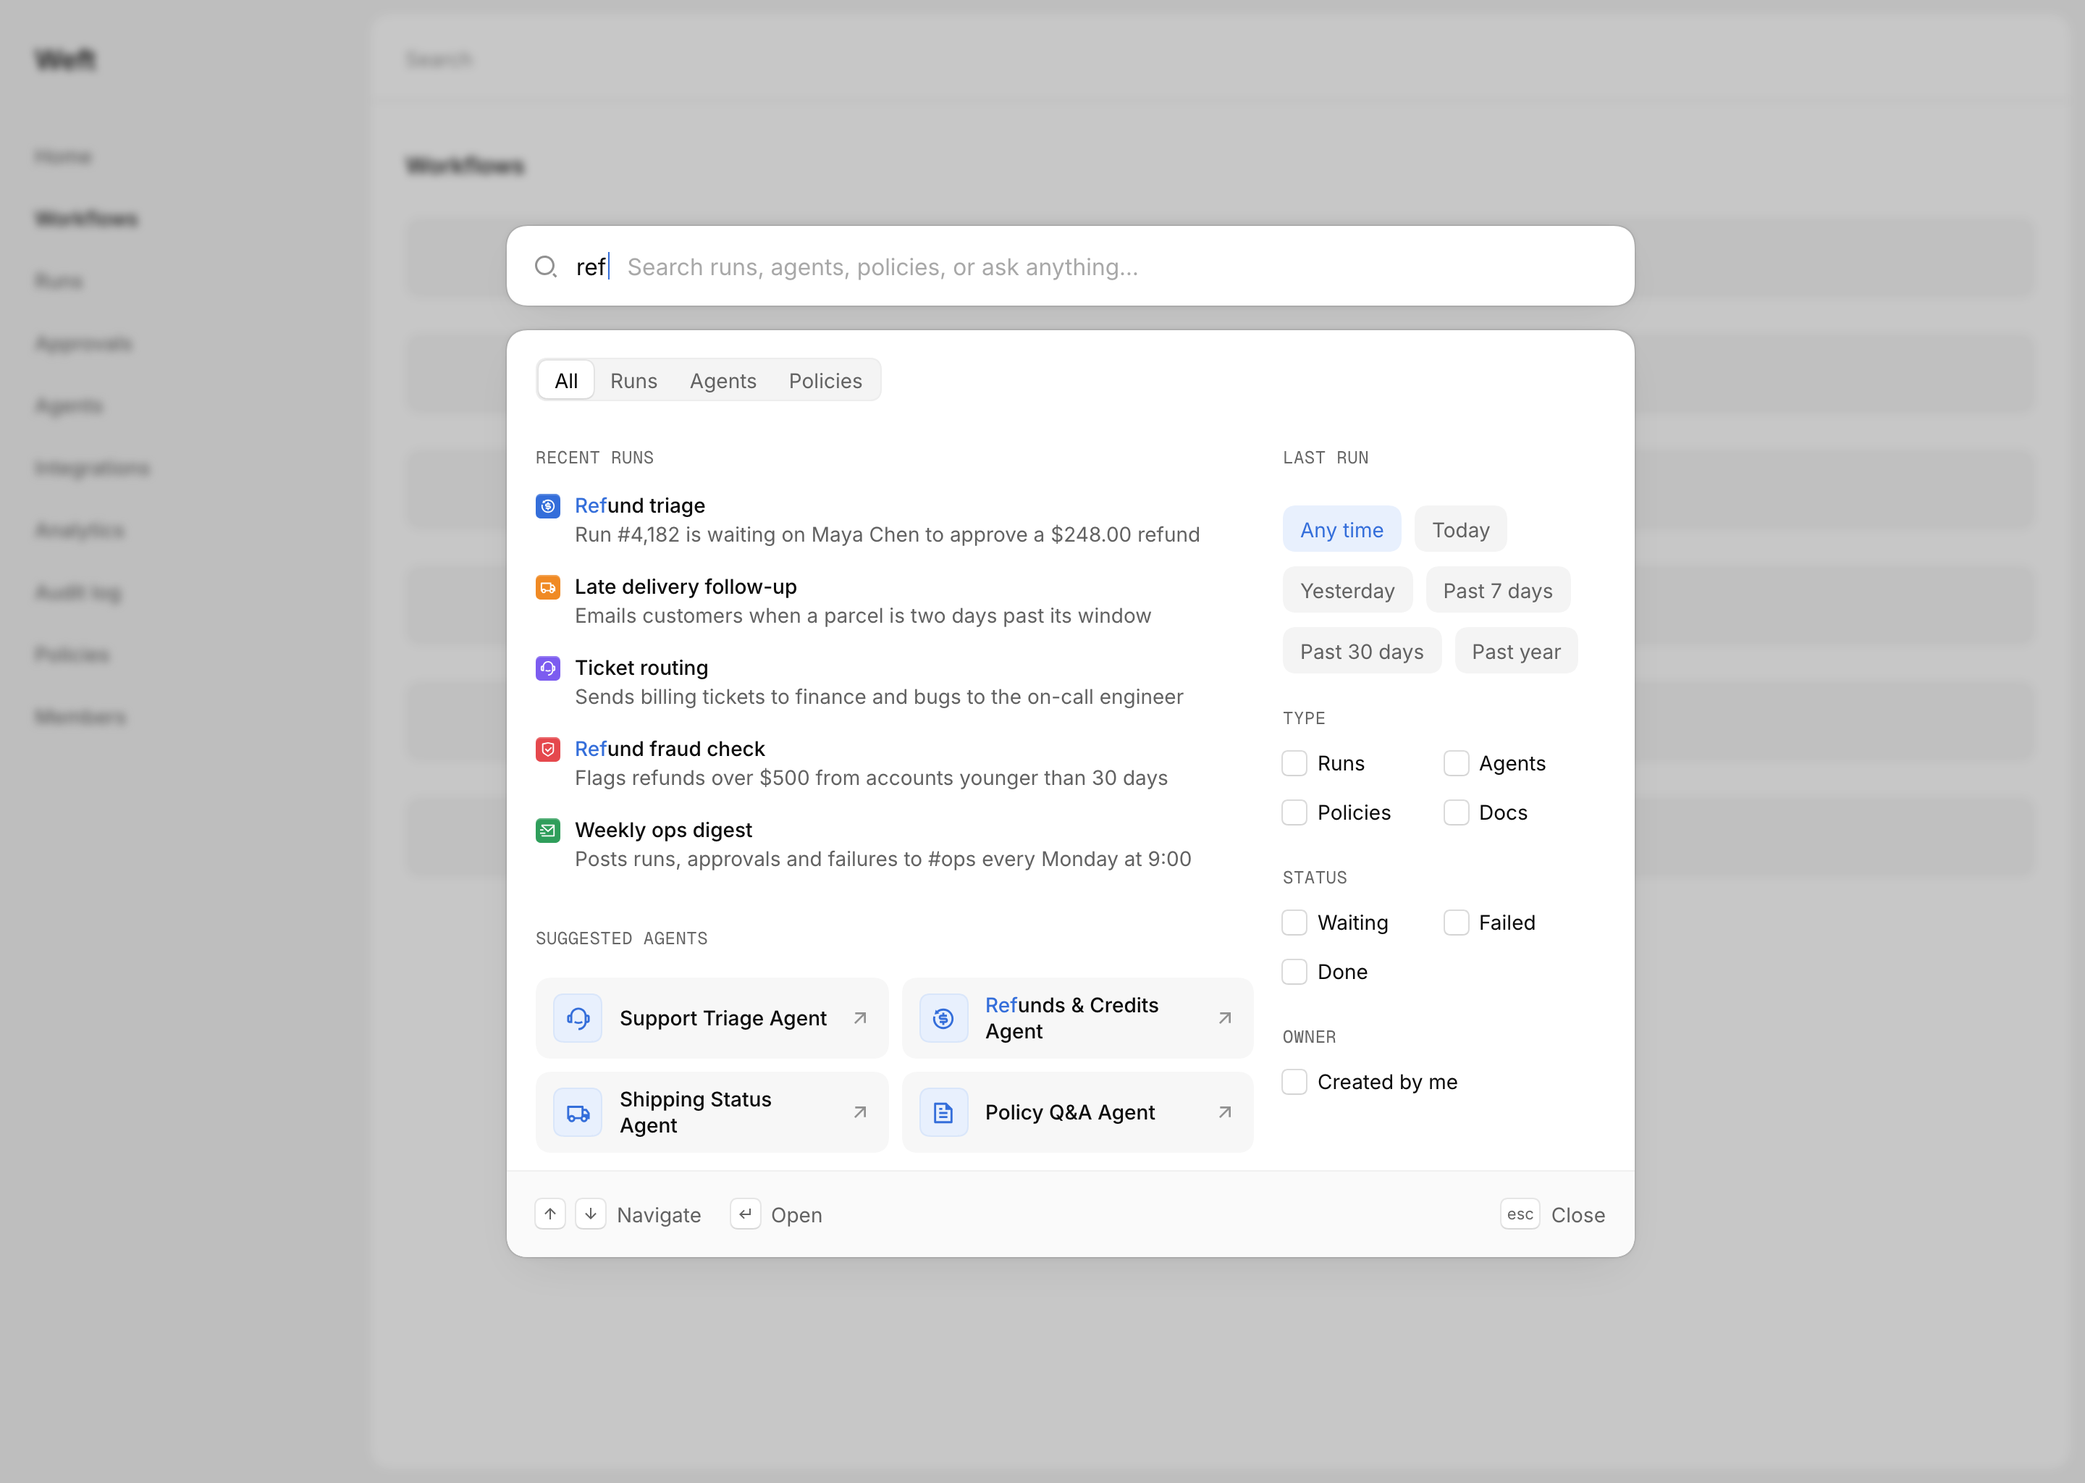
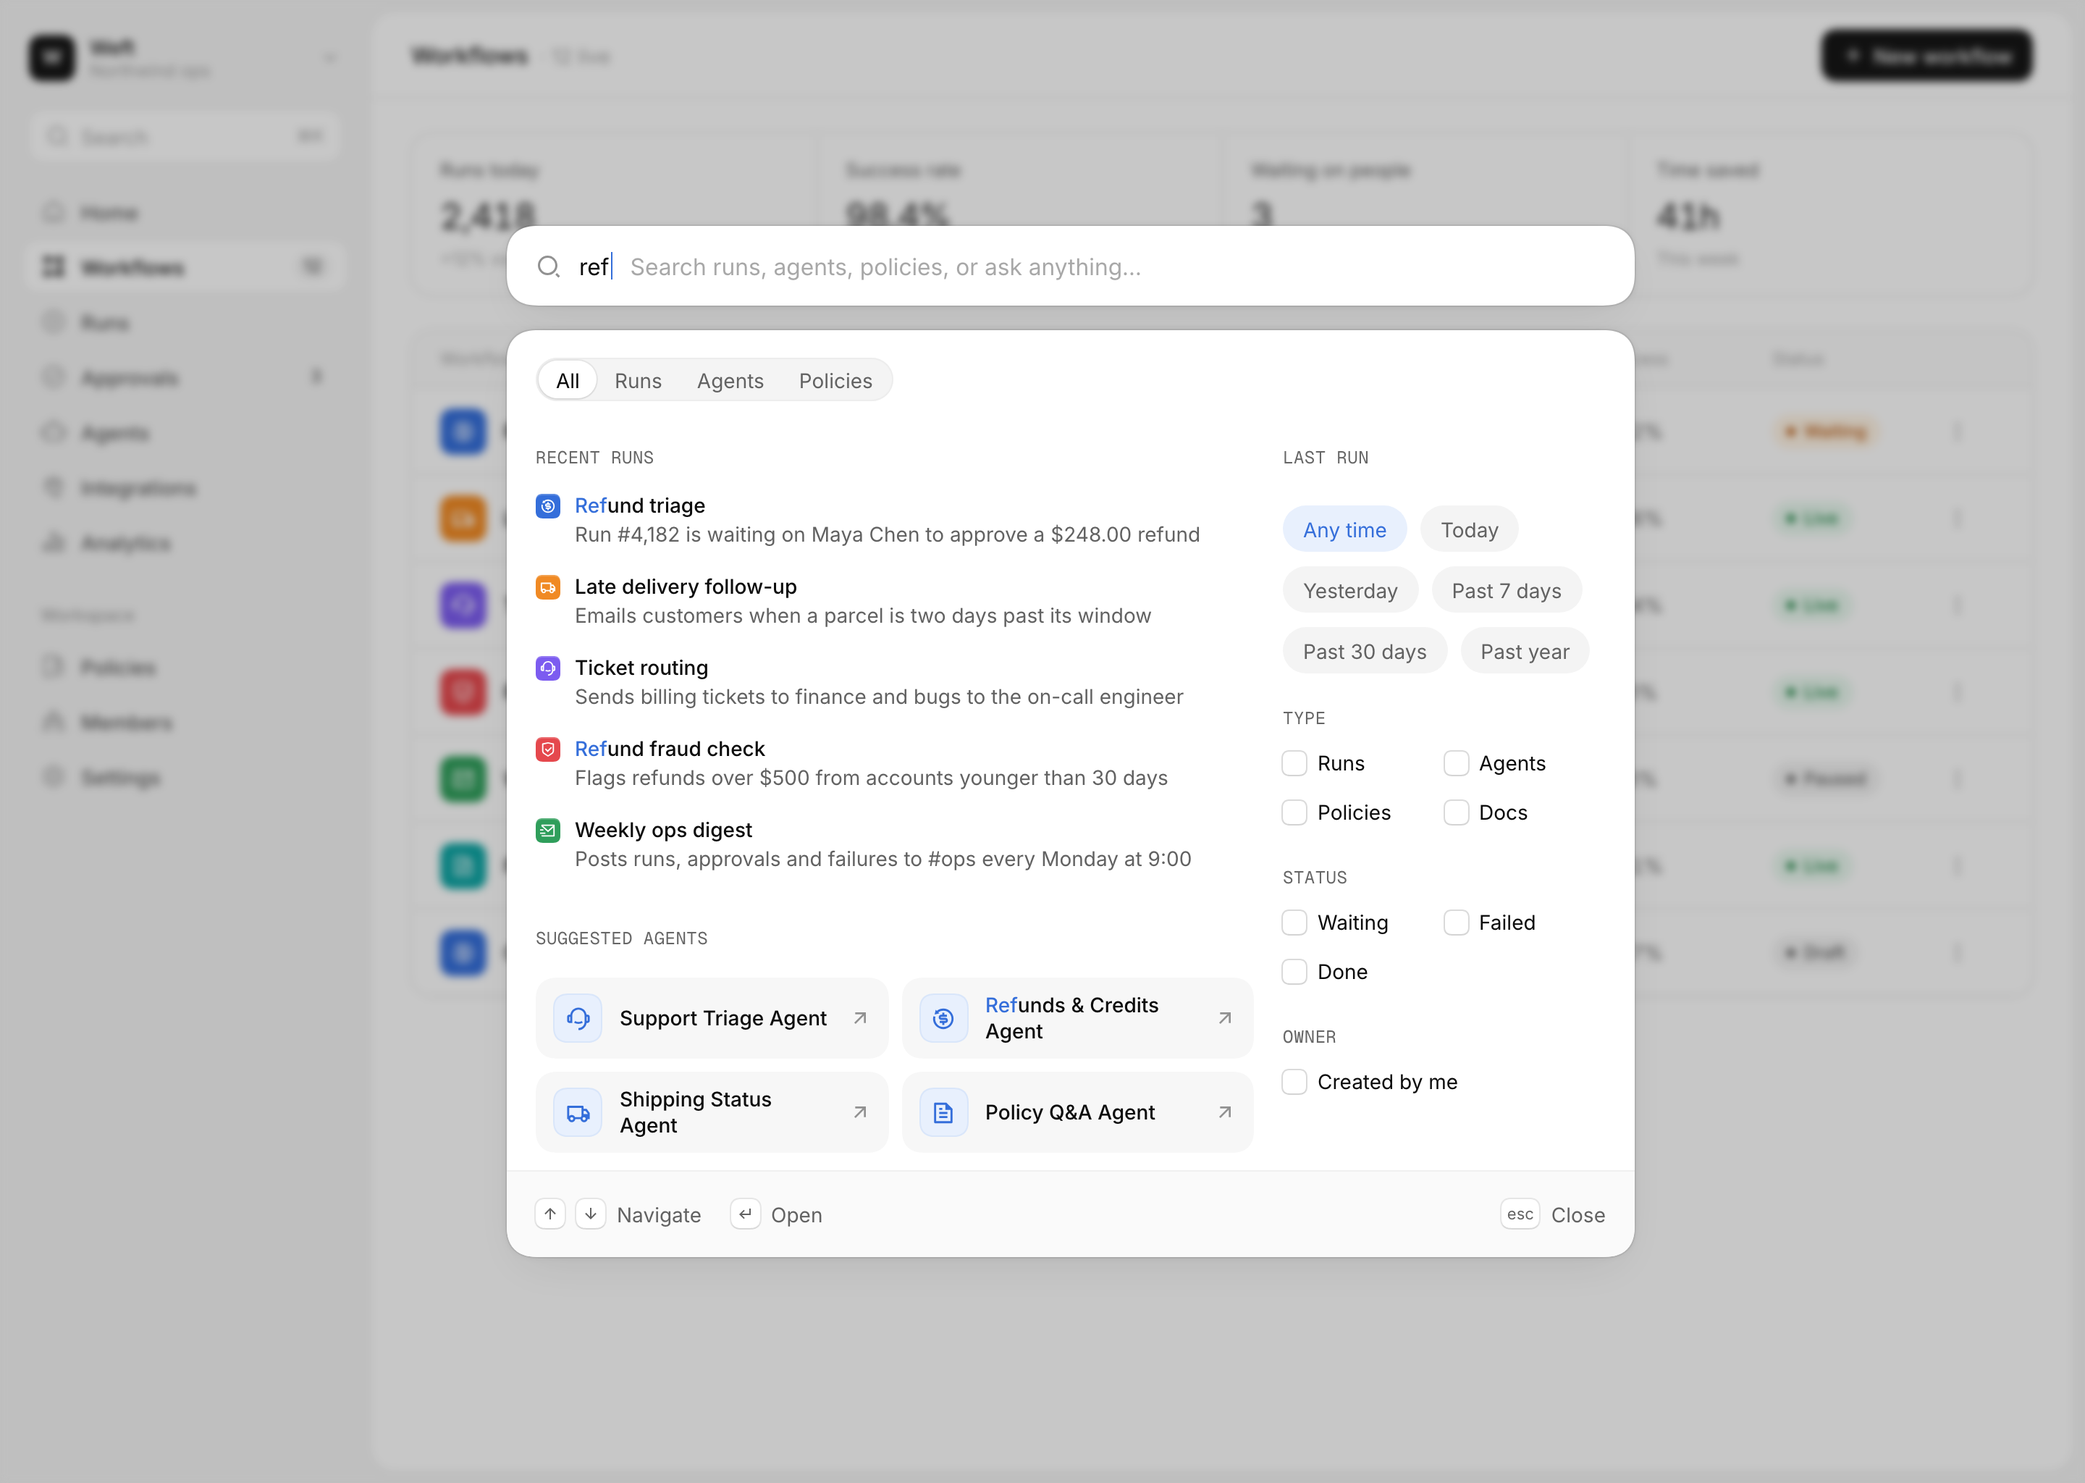
Search replica: rounder ladder (22 surfaces, pill chips/segmented, 16 tiles), real Weft workflows app behind the scrim

diff --git a/work/replicas/app/src/Search.tsx b/work/replicas/app/src/Search.tsx
@@ -4,15 +4,16 @@
 // section labels, 56px result rows with 17px colour tiles, chip filters, checkbox columns, a hint footer strip.
 // Our content: Weft (AI workflows). Own touch: the matched query letters are highlighted in each result title.
 import type { ReactNode } from 'react'
+import WeftApp from './WeftApp'
 import { RiSearch2Line, RiFlowChart, RiFileTextLine, RiArrowRightUpLine, RiArrowUpLine, RiArrowDownLine, RiCornerDownLeftLine, RiCustomerService2Line, RiRefund2Line, RiTruckLine, RiShieldCheckLine, RiMailSendLine } from '@remixicon/react'
 
 const ink = '#0c0c0c', sub = '#626262', mute = '#919191'
 const ring = '0 0 0 1px rgb(0 0 0 / 0.07)'
 const surface = `${ring}, 0 0 6px rgb(0 0 0 / 0.06), 0 12px 32px -12px rgb(0 0 0 / 0.10)`
 const Caps = ({ children, className = '' }: { children: ReactNode; className?: string }) => <div className={`font-mono text-[12px] uppercase tracking-[0.02em] ${className}`} style={{ color: '#666' }}>{children}</div>
-const Tile = ({ c, icon: I }: { c: string; icon: typeof RiFlowChart }) => <span className="grid size-[17px] shrink-0 place-items-center rounded-[4px] text-white" style={{ background: c, boxShadow: 'inset 0 1px 0 rgb(255 255 255 / 0.2)' }}><I size={11} /></span>
-const Box = () => <span className="size-4 shrink-0 rounded-[4px] bg-white" style={{ boxShadow: '0 0 0 1px rgb(0 0 0 / 0.14), 0 1px 1px rgb(0 0 0 / 0.04)' }} />
-const Key = ({ children }: { children: ReactNode }) => <span className="grid h-5 min-w-5 place-items-center rounded-[5px] bg-white px-1 text-[11px]" style={{ color: sub, boxShadow: '0 0 0 1px rgb(0 0 0 / 0.08), 0 1px 0 rgb(0 0 0 / 0.06)' }}>{children}</span>
+const Tile = ({ c, icon: I }: { c: string; icon: typeof RiFlowChart }) => <span className="grid size-[17px] shrink-0 place-items-center rounded-[5px] text-white" style={{ background: c, boxShadow: 'inset 0 1px 0 rgb(255 255 255 / 0.2)' }}><I size={11} /></span>
+const Box = () => <span className="size-4 shrink-0 rounded-[5px] bg-white" style={{ boxShadow: '0 0 0 1px rgb(0 0 0 / 0.14), 0 1px 1px rgb(0 0 0 / 0.04)' }} />
+const Key = ({ children }: { children: ReactNode }) => <span className="grid h-5 min-w-5 place-items-center rounded-[7px] bg-white px-1 text-[11px]" style={{ color: sub, boxShadow: '0 0 0 1px rgb(0 0 0 / 0.08), 0 1px 0 rgb(0 0 0 / 0.06)' }}>{children}</span>
 const Hit = ({ t, q }: { t: string; q: string }) => { const i = t.toLowerCase().indexOf(q); return i < 0 ? <>{t}</> : <>{t.slice(0, i)}<span style={{ color: '#346eda' }}>{t.slice(i, i + q.length)}</span>{t.slice(i + q.length)}</> }
 
 const RECENT: [string, typeof RiFlowChart, string, string][] = [
@@ -27,33 +28,23 @@ const AGENTS: [typeof RiFlowChart, string][] = [[RiCustomerService2Line, 'Suppor
 export default function Search() {
   return (
     <div className="relative overflow-hidden" style={{ width: 1440, height: 1024, background: '#f4f4f4', fontFamily: '"Inter Variable", system-ui, sans-serif', fontFeatureSettings: '"cv11"', color: ink }}>
-      {/* the app behind, blurred */}
-      <div aria-hidden className="absolute inset-0" style={{ filter: 'blur(3px)' }}>
-        <div className="absolute left-0 top-0 h-full w-[256px] px-6 pt-7 text-[14px] font-[500]" style={{ color: '#7a7a7a' }}>
-          <div className="mb-10 text-[19px] font-[600] text-[#222]">Weft</div>
-          {['Home', 'Workflows', 'Runs', 'Approvals', 'Agents', 'Integrations', 'Analytics', 'Audit log', 'Policies', 'Members'].map((l, i) => <div key={l} className={`mb-[22px] ${i === 1 ? 'text-[#222]' : ''}`}>{l}</div>)}
-        </div>
-        <div className="absolute left-[256px] top-[10px] h-[1004px] w-[1174px] rounded-[16px] bg-white">
-          <div className="h-[60px] border-b border-[#ececec] px-6 pt-5 text-[14px] text-[#999]">Search</div>
-          <div className="px-6 pt-8 text-[16px] font-[600] text-[#333]">Workflows</div>
-          {[0, 1, 2, 3, 4, 5].map((i) => <div key={i} className="mx-6 mt-6 h-[56px] rounded-[12px] bg-[#f6f6f6]" />)}
-        </div>
-      </div>
+      {/* the app behind, blurred: a real Weft screen */}
+      <div aria-hidden className="absolute inset-0" style={{ filter: 'blur(3px)' }}><WeftApp /></div>
       <div className="absolute inset-0" style={{ background: 'rgb(0 0 0 / 0.22)' }} />
 
       {/* bar */}
       <div data-subject className="absolute" style={{ left: 350, top: 156, width: 779 }}>
-        <div className="flex h-[55px] items-center gap-3 rounded-[16px] bg-white px-[18px] text-[16px]" style={{ boxShadow: surface }}>
+        <div className="flex h-[55px] items-center gap-3 rounded-[22px] bg-white px-[20px] text-[16px]" style={{ boxShadow: surface }}>
           <RiSearch2Line size={18} style={{ color: mute }} />
           <span>ref<span className="ml-px inline-block h-[19px] w-[1.5px] translate-y-[3px] bg-[#346eda]" /></span>
           <span style={{ color: '#a8a8a8' }}>Search runs, agents, policies, or ask anything…</span>
         </div>
 
         {/* results */}
-        <div className="mt-[17px] overflow-hidden rounded-[16px] bg-white" style={{ boxShadow: surface }}>
+        <div className="mt-[17px] overflow-hidden rounded-[22px] bg-white" style={{ boxShadow: surface }}>
           <div className="px-5 pt-[19px]">
-            <div className="inline-flex h-[30px] items-center rounded-[9px] p-[2px]" style={{ background: '#f4f4f4', boxShadow: 'inset 0 0 0 1px #ededed' }}>
-              {['All', 'Runs', 'Agents', 'Policies'].map((t, i) => <span key={t} className="flex h-[26px] items-center rounded-[7px] px-[11px] text-[14px]" style={i === 0 ? { background: '#fff', color: '#060606', boxShadow: '0 0 0 1px rgb(0 0 0 / 0.06), 0 1px 1px rgb(0 0 0 / 0.06)' } : { color: sub }}>{t}</span>)}
+            <div className="inline-flex h-[30px] items-center rounded-full p-[2px]" style={{ background: '#f4f4f4', boxShadow: 'inset 0 0 0 1px #ededed' }}>
+              {['All', 'Runs', 'Agents', 'Policies'].map((t, i) => <span key={t} className="flex h-[26px] items-center rounded-full px-[12px] text-[14px]" style={i === 0 ? { background: '#fff', color: '#060606', boxShadow: '0 0 0 1px rgb(0 0 0 / 0.06), 0 1px 1px rgb(0 0 0 / 0.06)' } : { color: sub }}>{t}</span>)}
             </div>
           </div>
           <div className="flex px-5">
@@ -70,8 +61,8 @@ export default function Search() {
               <Caps className="pt-[20px]">Suggested agents</Caps>
               <div className="grid grid-cols-2 gap-[9px] pt-[18px]">
                 {AGENTS.map(([I, t]) => (
-                  <div key={t} className="flex h-[56px] items-center gap-3 rounded-[12px] px-3" style={{ background: '#f7f7f7' }}>
-                    <span className="grid size-[34px] place-items-center rounded-[8px]" style={{ background: '#e8f0fd', color: '#346eda', boxShadow: 'inset 0 0 0 1px rgb(52 110 218 / 0.08)' }}><I size={17} /></span>
+                  <div key={t} className="flex h-[56px] items-center gap-3 rounded-[16px] px-3" style={{ background: '#f7f7f7' }}>
+                    <span className="grid size-[34px] place-items-center rounded-[11px]" style={{ background: '#e8f0fd', color: '#346eda', boxShadow: 'inset 0 0 0 1px rgb(52 110 218 / 0.08)' }}><I size={17} /></span>
                     <span className="flex-1 text-[14px] font-[500] leading-[18px]"><Hit t={t} q="ref" /></span>
                     <RiArrowRightUpLine size={16} style={{ color: mute }} />
                   </div>
@@ -81,7 +72,7 @@ export default function Search() {
             <div className="ml-auto w-[223px] pb-6">
               <Caps className="pt-[30px]">Last run</Caps>
               <div className="flex flex-wrap gap-x-[9px] gap-y-[10px] pt-[24px] text-[14px]">
-                {['Any time', 'Today', 'Yesterday', 'Past 7 days', 'Past 30 days', 'Past year'].map((c, i) => <span key={c} className="flex h-[32px] items-center rounded-[10px] px-3" style={i === 0 ? { background: '#e8f0fd', color: '#346eda' } : { background: '#f4f4f4', color: sub }}>{c}</span>)}
+                {['Any time', 'Today', 'Yesterday', 'Past 7 days', 'Past 30 days', 'Past year'].map((c, i) => <span key={c} className="flex h-[32px] items-center rounded-full px-3.5" style={i === 0 ? { background: '#e8f0fd', color: '#346eda' } : { background: '#f4f4f4', color: sub }}>{c}</span>)}
               </div>
               {[['Type', ['Runs', 'Agents', 'Policies', 'Docs']], ['Status', ['Waiting', 'Failed', 'Done']], ['Owner', ['Created by me']]].map(([h, items]) => (
                 <div key={h as string}>

diff --git a/work/replicas/app/src/WeftApp.tsx b/work/replicas/app/src/WeftApp.tsx
@@ -1,0 +1,71 @@
+// The Weft app shown behind the search modal: a real workflows screen in the AlignUI / affectUI grammar (inset white
+// panel on a soft grey shell, 36px nav rows, a KPI strip in one card with hairline dividers, a workflows table with
+// typed rows). Sample data.
+import { RiHome5Line, RiFlowChart, RiPlayCircleLine, RiCheckboxCircleLine, RiRobot2Line, RiPlugLine, RiBarChart2Line, RiFileShield2Line, RiTeamLine, RiSettings3Line, RiSearch2Line, RiAddLine, RiArrowDownSLine, RiMore2Fill, RiRefund2Line, RiTruckLine, RiCustomerService2Line, RiShieldCheckLine, RiMailSendLine, RiFileTextLine } from '@remixicon/react'
+
+const ink = '#171717', sub = '#5c5c5c', soft = '#a3a3a3', line = '#ececec'
+const NAV: [typeof RiHome5Line, string, string?][] = [[RiHome5Line, 'Home'], [RiFlowChart, 'Workflows', '12'], [RiPlayCircleLine, 'Runs'], [RiCheckboxCircleLine, 'Approvals', '3'], [RiRobot2Line, 'Agents'], [RiPlugLine, 'Integrations'], [RiBarChart2Line, 'Analytics']]
+const ROWS: [typeof RiHome5Line, string, string, string, string, string, string][] = [
+  [RiRefund2Line, '#346eda', 'Refund triage', 'Zendesk → Stripe', '4,182', '98.2%', 'Waiting'],
+  [RiTruckLine, '#f08a24', 'Late delivery follow-up', 'Shopify → Gmail', '1,906', '99.6%', 'Live'],
+  [RiCustomerService2Line, '#7c5cf0', 'Ticket routing', 'Zendesk → Linear', '12,440', '97.4%', 'Live'],
+  [RiShieldCheckLine, '#e5484d', 'Refund fraud check', 'Stripe → Slack', '611', '100%', 'Live'],
+  [RiMailSendLine, '#2f9e5b', 'Weekly ops digest', 'Weft → Slack', '42', '100%', 'Paused'],
+  [RiFileTextLine, '#0ea5a4', 'Policy Q&A', 'Notion → Intercom', '3,318', '96.1%', 'Live'],
+  [RiRefund2Line, '#346eda', 'Chargeback evidence', 'Stripe → Drive', '208', '94.7%', 'Draft'],
+]
+const STATE: Record<string, [string, string]> = { Waiting: ['#fff4e5', '#b45309'], Live: ['#e9f8ef', '#15803d'], Paused: ['#f2f2f2', '#5c5c5c'], Draft: ['#f2f2f2', '#5c5c5c'] }
+
+export default function WeftApp() {
+  return (
+    <div className="absolute inset-0 flex" style={{ background: '#f5f5f5', color: ink }}>
+      <aside className="flex w-[256px] shrink-0 flex-col px-3 pt-4">
+        <div className="flex h-12 items-center gap-2.5 px-2">
+          <span className="grid size-8 place-items-center rounded-[10px] bg-[#171717] text-[13px] font-[600] text-white shadow-[inset_0_1px_0_rgb(255_255_255/0.18)]">W</span>
+          <div className="leading-tight"><div className="text-[14px] font-[500]">Weft</div><div className="text-[12px]" style={{ color: soft }}>Northwind ops</div></div>
+          <RiArrowDownSLine size={16} className="ml-auto" style={{ color: soft }} />
+        </div>
+        <div className="mx-2 mt-3 flex h-9 items-center gap-2 rounded-[12px] bg-white px-3 text-[14px]" style={{ color: soft, boxShadow: `0 0 0 1px ${line}, 0 1px 2px rgb(0 0 0 / 0.04)` }}><RiSearch2Line size={16} />Search<span className="ml-auto text-[12px]">⌘K</span></div>
+        <nav className="mt-4 flex flex-col gap-0.5 px-1">
+          {NAV.map(([I, l, n]) => (
+            <div key={l} className="flex h-9 items-center gap-2.5 rounded-[12px] px-3 text-[14px] font-[500]" style={l === 'Workflows' ? { background: '#fff', color: ink, boxShadow: `0 0 0 1px ${line}, 0 1px 2px rgb(0 0 0 / 0.04)` } : { color: sub }}>
+              <I size={18} style={{ color: l === 'Workflows' ? ink : soft }} />{l}{n && <span className="ml-auto rounded-full px-1.5 text-[12px]" style={{ color: sub, background: l === 'Workflows' ? '#f2f2f2' : 'transparent' }}>{n}</span>}
+            </div>
+          ))}
+        </nav>
+        <div className="mt-6 px-4 text-[12px] font-[500]" style={{ color: soft }}>Workspace</div>
+        <nav className="mt-2 flex flex-col gap-0.5 px-1">
+          {([[RiFileShield2Line, 'Policies'], [RiTeamLine, 'Members'], [RiSettings3Line, 'Settings']] as const).map(([I, l]) => <div key={l} className="flex h-9 items-center gap-2.5 rounded-[12px] px-3 text-[14px] font-[500]" style={{ color: sub }}><I size={18} style={{ color: soft }} />{l}</div>)}
+        </nav>
+      </aside>
+      <main className="my-2 mr-2 flex-1 overflow-hidden rounded-[20px] bg-white" style={{ boxShadow: `0 0 0 1px ${line}, 0 1px 2px rgb(0 0 0 / 0.03)` }}>
+        <div className="flex h-[60px] items-center px-7" style={{ boxShadow: `inset 0 -1px 0 ${line}` }}>
+          <span className="text-[16px] font-[500]">Workflows</span><span className="ml-2 text-[14px]" style={{ color: soft }}>· 12 live</span>
+          <span className="ml-auto flex h-9 items-center gap-1.5 rounded-[12px] bg-[#171717] px-3.5 text-[14px] font-[500] text-white shadow-[inset_0_1px_0_rgb(255_255_255/0.14),0_1px_2px_rgb(0_0_0/0.2)]"><RiAddLine size={16} />New workflow</span>
+        </div>
+        <div className="px-7 pt-6">
+          <div className="grid grid-cols-4 rounded-[18px]" style={{ boxShadow: `0 0 0 1px ${line}` }}>
+            {[['Runs today', '2,418', '+12% vs yesterday'], ['Success rate', '98.4%', '+0.6 pts'], ['Waiting on people', '3', 'Oldest 2m 14s'], ['Time saved', '41h', 'This week']].map(([l, v, d], i) => (
+              <div key={l} className="px-5 py-4" style={{ boxShadow: i ? `inset 1px 0 0 ${line}` : undefined }}>
+                <div className="text-[13px]" style={{ color: sub }}>{l}</div><div className="mt-1 text-[24px] tracking-[-0.02em] tabular-nums">{v}</div><div className="mt-0.5 text-[12px]" style={{ color: soft }}>{d}</div>
+              </div>
+            ))}
+          </div>
+          <div className="mt-6 overflow-hidden rounded-[18px]" style={{ boxShadow: `0 0 0 1px ${line}` }}>
+            <div className="grid h-10 grid-cols-[1fr_200px_120px_120px_120px_40px] items-center px-5 text-[12px]" style={{ background: '#fbfbfb', color: soft, boxShadow: `inset 0 -1px 0 ${line}` }}>
+              <span>Workflow</span><span>Apps</span><span>Runs</span><span>Success</span><span>Status</span><span />
+            </div>
+            {ROWS.map(([I, c, n, apps, runs, ok, st]) => (
+              <div key={n} className="grid h-[60px] grid-cols-[1fr_200px_120px_120px_120px_40px] items-center px-5 text-[14px]" style={{ boxShadow: `inset 0 -1px 0 ${line}` }}>
+                <span className="flex items-center gap-3 font-[500]"><span className="grid size-8 place-items-center rounded-[10px] text-white" style={{ background: c }}><I size={16} /></span>{n}</span>
+                <span style={{ color: sub }}>{apps}</span><span className="tabular-nums" style={{ color: sub }}>{runs}</span><span className="tabular-nums" style={{ color: sub }}>{ok}</span>
+                <span><span className="inline-flex h-6 items-center gap-1.5 rounded-full px-2.5 text-[12px] font-[500]" style={{ background: STATE[st][0], color: STATE[st][1] }}><span className="size-1.5 rounded-full" style={{ background: STATE[st][1] }} />{st}</span></span>
+                <RiMore2Fill size={16} style={{ color: soft }} />
+              </div>
+            ))}
+          </div>
+        </div>
+      </main>
+    </div>
+  )
+}
